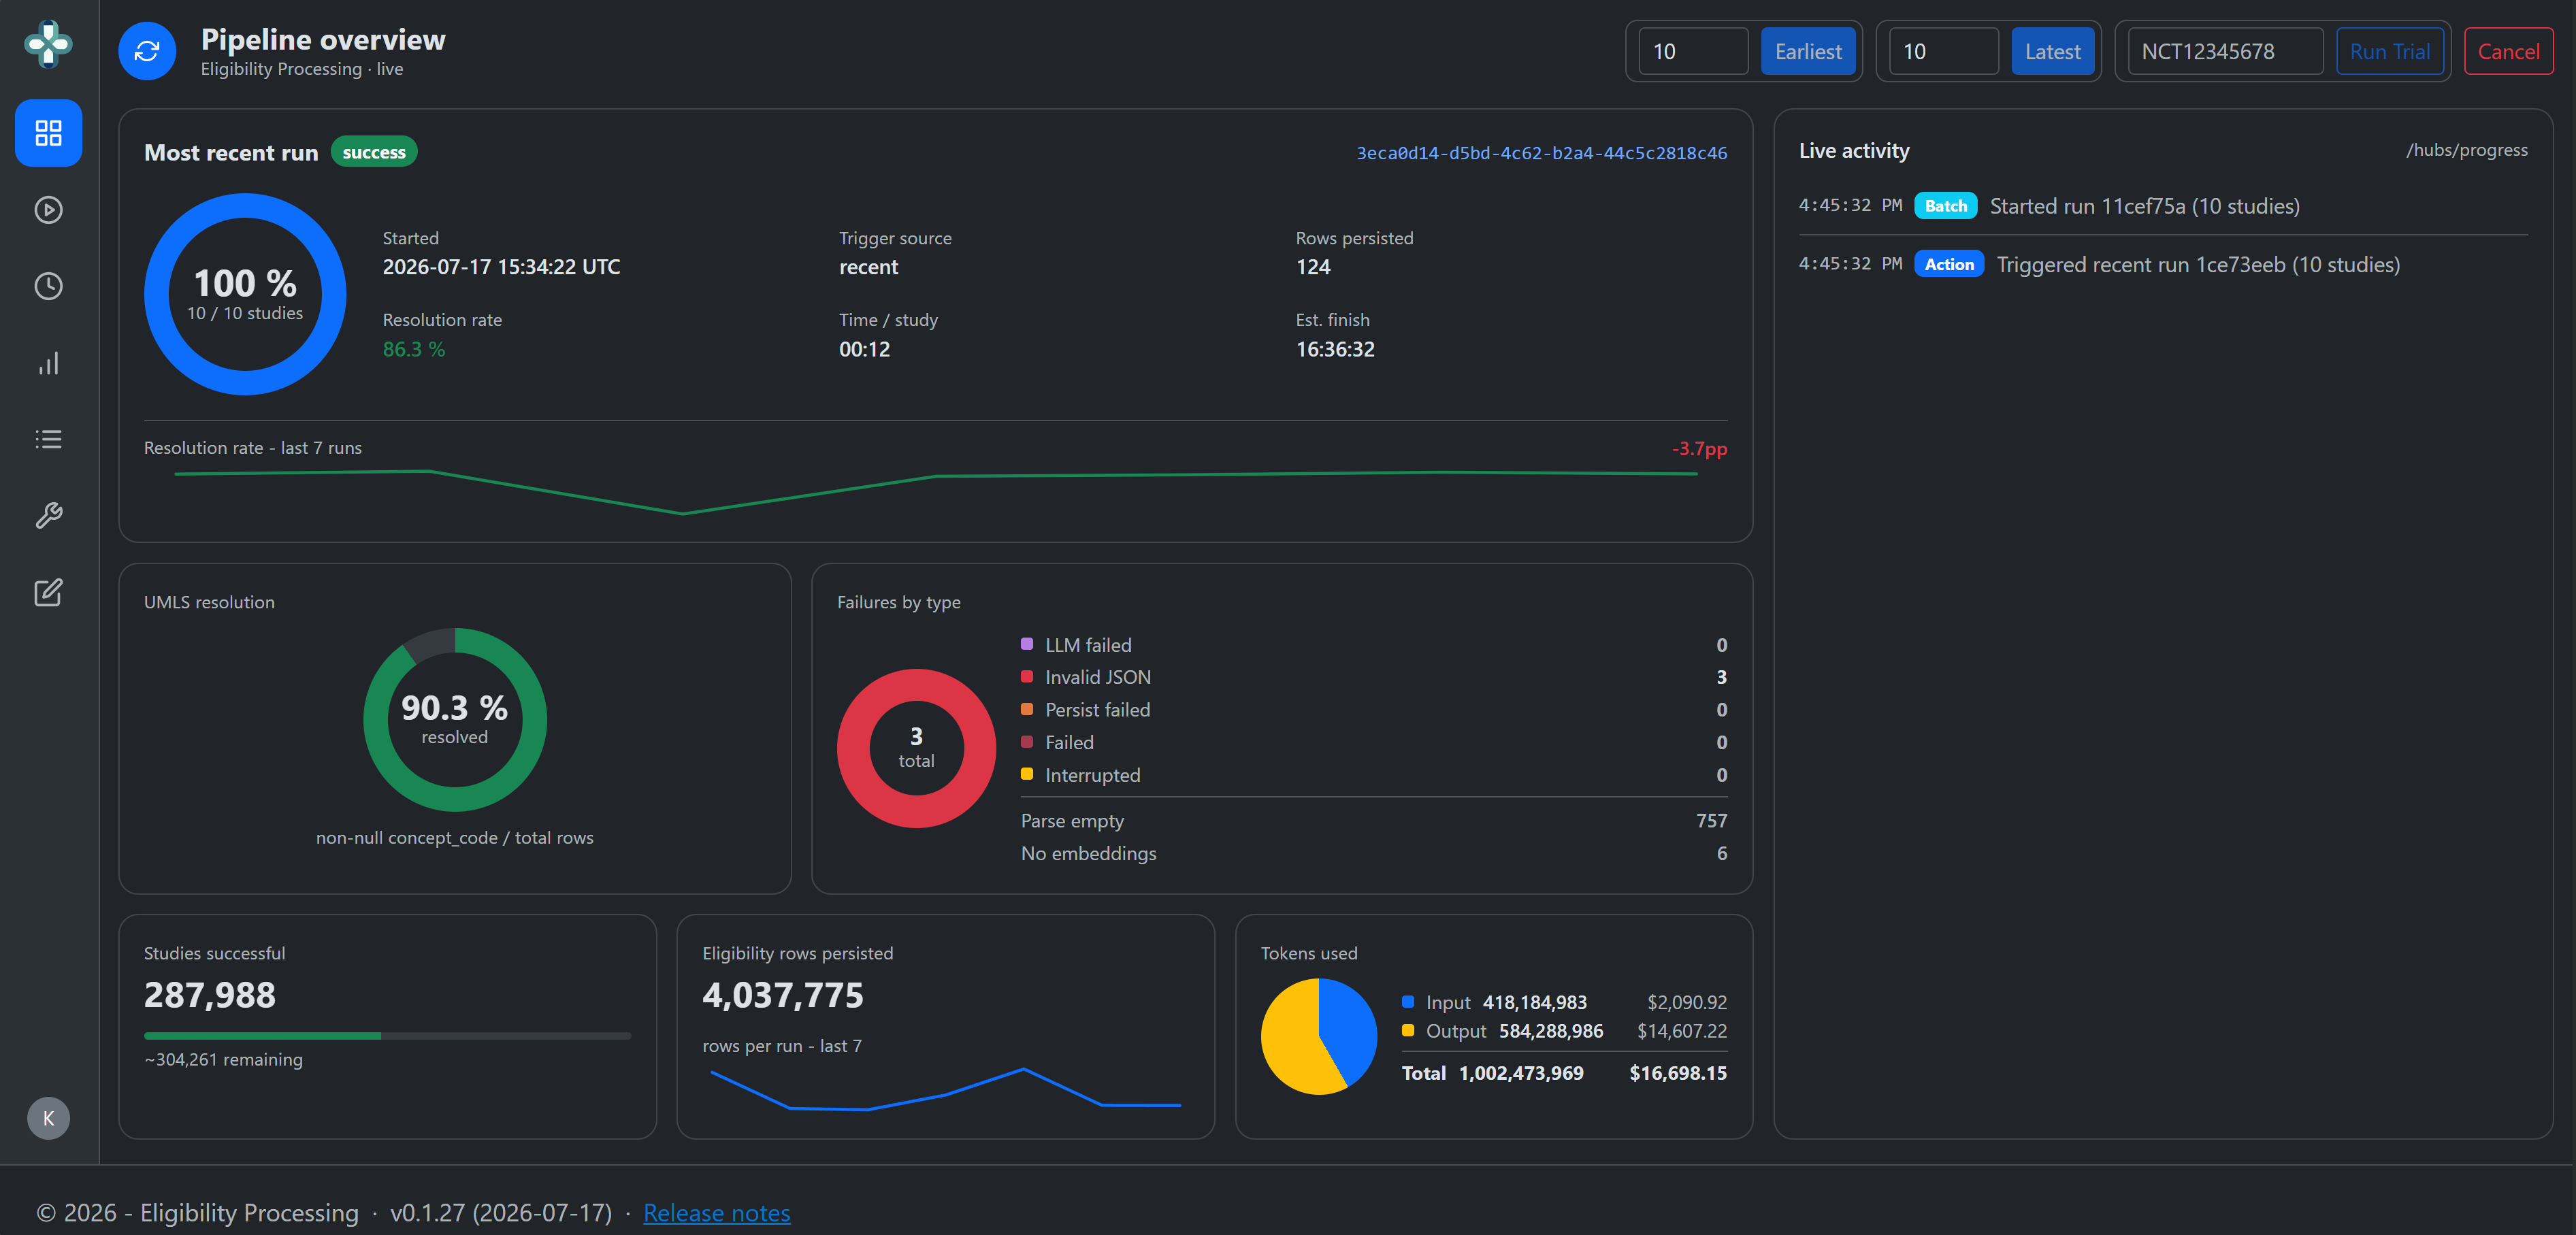
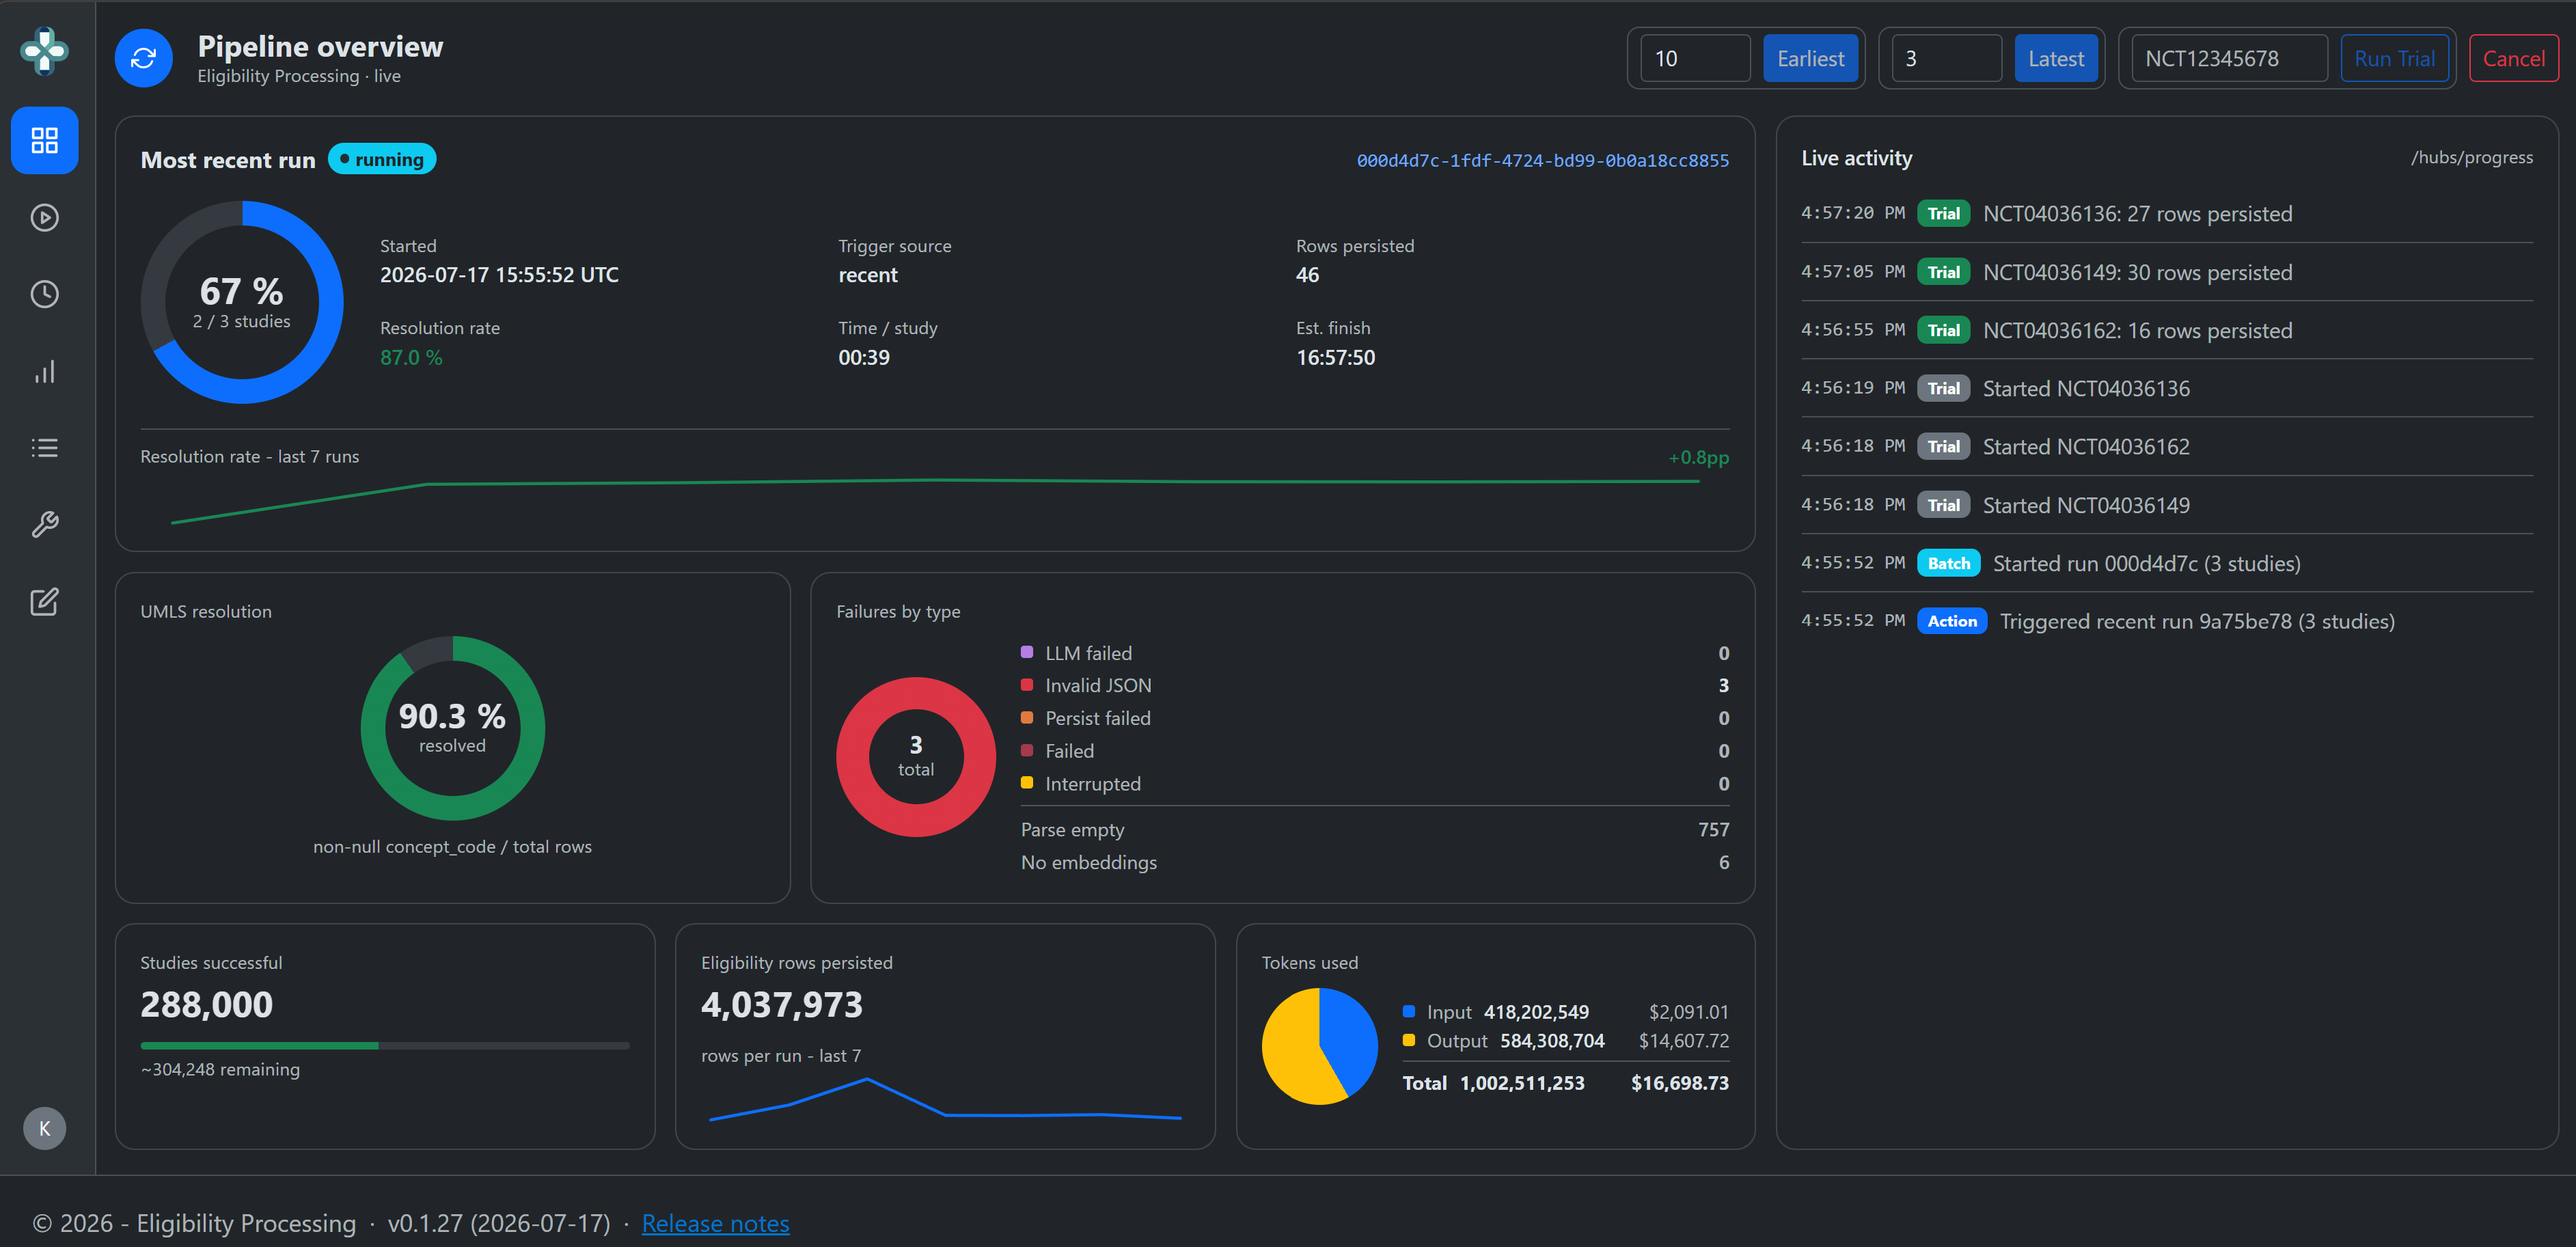
Dashboard follow-ups from the 4000-trial test run
Second round of post-deploy tweaks, all on the dashboard tab. Stacks on the
run-card-refresh work (PR #26), which is still open - this branch is based on it,
so #26 should merge first.

- Header reads "Clinical Eligibility Encoding" with "Pipeline overview" as the
  subtitle.
- Live activity is a fixed-height rolling ticker of the newest 16 events. The
  count cap dropped 50 -> 16, and the feed gains a max-height so it holds a
  steady height on a viewport too short for the pinned layout (a laptop under
  880px tall), where it had been growing as events streamed in. Removed in the
  pinned layout, where it fills the row.
- The most-recent-run card gained a skeleton overlay, so it shimmers with the
  rest while refreshing instead of updating with no loading state.
- Start and Est. finish are now both localized to the viewer's zone in one
  dd-MMM-yyyy HH:mm format (Start was UTC, Est. finish was local time-only -
  they read differently). Started now carries an ISO UTC for the client to
  localize, and the shared date formatter was changed to that format.
- Time per study reports tenths of a second (mm:ss.f). At a 3-4s average, whole
  seconds hid the movement that matters.
- The rows trend is now rows per 100 trials, not the raw per-run total: runs
  have different study counts, so a raw total made a small run look worse than a
  big one. Caption updated to match.
- Token costs are labelled "At equivalent foundation model prices." - inference
[…]

diff --git a/contexts/eligibility/src/EligibilityProcessing.Web/wwwroot/css/site.css b/contexts/eligibility/src/EligibilityProcessing.Web/wwwroot/css/site.css
@@ -410,16 +410,23 @@ html {
    keeps a long run from defeating the single-screen layout above. min-height:0
    is load-bearing: a flex child's default min-height:auto refuses to shrink
    below its content, so the list would push the card past the viewport and the
-   overflow would never engage. */
+   overflow would never engage.
+
+   max-height caps it as a rolling ticker when the layout is NOT height-pinned
+   (a viewport under 880px tall - a common laptop). Without it, the feed grows to
+   fit its (now 16-item) list and the card creeps taller as events stream in. In
+   the pinned layout below the cap is removed so the feed fills the row instead. */
 .ep-activity-log {
   flex: 1 1 auto;
   min-height: 12rem;
+  max-height: 26rem;
   overflow-y: auto;
 }
 
 @media (min-height: 880px) and (min-width: 1400px) {
   .ep-activity-log {
     min-height: 0;
+    max-height: none;
   }
 }
 

diff --git a/contexts/eligibility/tests/EligibilityProcessing.Integration.Tests/RunCardViewTests.cs b/contexts/eligibility/tests/EligibilityProcessing.Integration.Tests/RunCardViewTests.cs
@@ -99,6 +99,26 @@ public class RunCardViewTests
         Assert.Equal("-", v.TimePerStudyText);
     }
 
+    // Time per study carries tenths of a second: at a 3-4s average, whole
+    // seconds hide the movement that matters. 50 studies over 5m17.0s = 6.34s
+    // each -> 00:06.3.
+    [Fact]
+    public void Time_per_study_shows_tenths_of_a_second()
+    {
+        var ended = new DateTimeOffset(2026, 7, 17, 10, 5, 17, TimeSpan.Zero);
+        var v = RunCardView.From(Run(50, 50, status: "success", endedAt: ended))!;
+        Assert.Equal("00:06.3", v.TimePerStudyText);
+    }
+
+    // Started travels as an ISO UTC too, so the client can localize it to the
+    // same zone and format as Est. finish.
+    [Fact]
+    public void Started_carries_an_iso_utc_for_localization()
+    {
+        var v = RunCardView.From(Run(10, 4))!;
+        Assert.Equal("2026-07-17T10:00:00.0000000Z", v.StartedUtc);
+    }
+
     // Invariant formatting, matching the rest of the payload: "90.0 %" with a
     // space on the invariant culture the container runs, not a dev box's "90.0%".
     [Fact]

diff --git a/contexts/eligibility/src/EligibilityProcessing.Web/Models/RunCardView.cs b/contexts/eligibility/src/EligibilityProcessing.Web/Models/RunCardView.cs
@@ -32,6 +32,10 @@ public sealed class RunCardView
     /// <summary>Whether to pulse the RUNNING dot - true only while in flight.</summary>
     public bool IsRunning { get; init; }
 
+    /// <summary>ISO-8601 UTC for the .local-datetime script to localize, so
+    /// Started and Est. finish render in the same viewer-local zone and format.
+    /// StartedText is the pre-JS fallback only.</summary>
+    public string StartedUtc { get; init; } = "";
     public string StartedText { get; init; } = "";
     public string TriggerSource { get; init; } = "";
     public string RowsPersistedText { get; init; } = "";
@@ -95,6 +99,7 @@ public sealed class RunCardView
                 _ => "bg-secondary"
             },
             IsRunning = run.Status == "running",
+            StartedUtc = run.StartedAt.UtcDateTime.ToString("o", inv),
             StartedText = run.StartedAt.ToString("yyyy-MM-dd HH:mm:ss 'UTC'", inv),
             TriggerSource = run.TriggerSource,
             RowsPersistedText = run.RowsPersisted.ToString("N0", inv),
@@ -110,7 +115,9 @@ public sealed class RunCardView
         };
     }
 
-    // Duration as mm:ss - TotalMinutes so a >1h pace still reads correctly.
+    // Duration as mm:ss.f - tenths of a second, because at a 3-4s average per
+    // study whole seconds lose the resolution that matters. TotalMinutes (not
+    // Minutes) so a >1h pace still reads correctly.
     private static string FormatMmSs(TimeSpan ts) =>
-        $"{(int)ts.TotalMinutes:D2}:{ts.Seconds:D2}";
+        $"{(int)ts.TotalMinutes:D2}:{ts.Seconds:D2}.{ts.Milliseconds / 100:D1}";
 }

diff --git a/contexts/eligibility/tests/EligibilityProcessing.Integration.Tests/VersionWebTests.cs b/contexts/eligibility/tests/EligibilityProcessing.Integration.Tests/VersionWebTests.cs
@@ -31,7 +31,7 @@ public class VersionWebTests : IClassFixture<WebTests.Factory>
 
         var info = await response.Content.ReadFromJsonAsync<VersionDto>();
         Assert.NotNull(info);
-        Assert.Equal("0.1.28", info!.Version);
+        Assert.Equal("0.1.29", info!.Version);
         Assert.Equal("2026-07-17", info.ReleaseDate);
         Assert.Equal(PostgresGateway.MigrationNames.Count, info.SchemaVersion);
     }
@@ -45,7 +45,7 @@ public class VersionWebTests : IClassFixture<WebTests.Factory>
 
         var body = await response.Content.ReadAsStringAsync();
         Assert.Contains("Release notes", body);
-        Assert.Contains("0.1.28", body);
+        Assert.Contains("0.1.29", body);
         Assert.Contains("Enhancements", body);
     }
 
@@ -55,7 +55,7 @@ public class VersionWebTests : IClassFixture<WebTests.Factory>
         var client = _factory.CreateClient();
         var response = await client.GetAsync("/");
         var body = await response.Content.ReadAsStringAsync();
-        Assert.Contains("v0.1.28", body);
+        Assert.Contains("v0.1.29", body);
         Assert.Contains("/ReleaseNotes", body);
     }
 
@@ -77,7 +77,7 @@ public class VersionWebTests : IClassFixture<WebTests.Factory>
     public void AppVersion_GetInfo_formats_version_and_passes_schema_version_through()
     {
         var info = AppVersion.GetInfo(schemaVersion: 7);
-        Assert.Equal("0.1.28", info.Version);
+        Assert.Equal("0.1.29", info.Version);
         Assert.Equal(7, info.SchemaVersion);
         Assert.Equal("Eligibility Pipeline", info.App);
     }